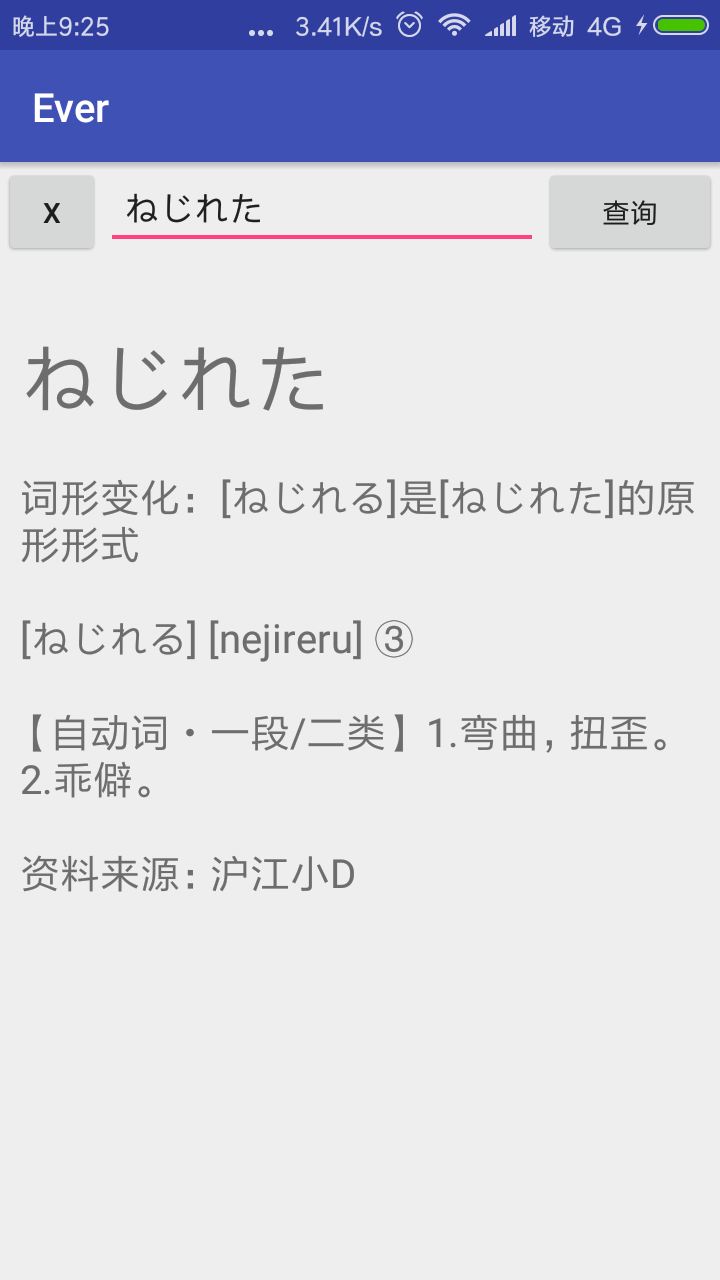
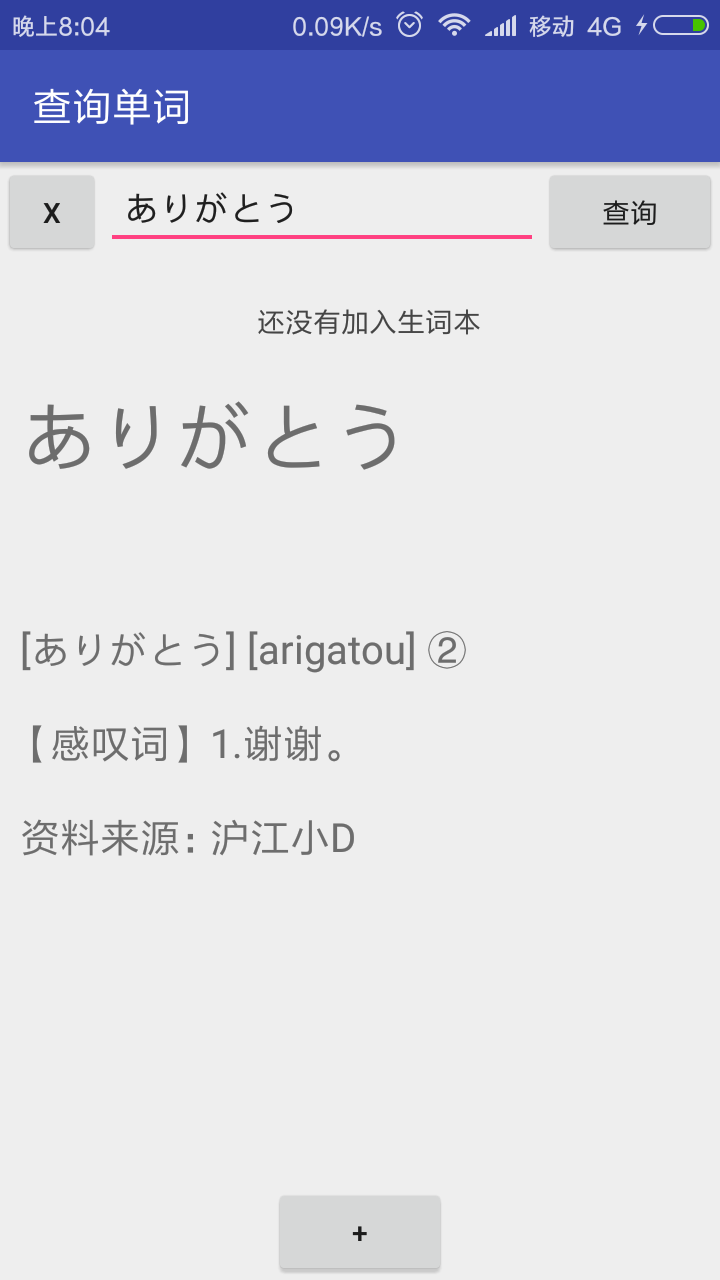
添加了加入生词本功能

diff --git a/README.md b/README.md
@@ -4,5 +4,7 @@
 
 ---
 # 截图
-![Alt text](截图1.png)
-![Alt text](截图2.png)
+![](截图1.png)
+![](截图4.png)
+![](截图2.png)
+![](截图3.png)
